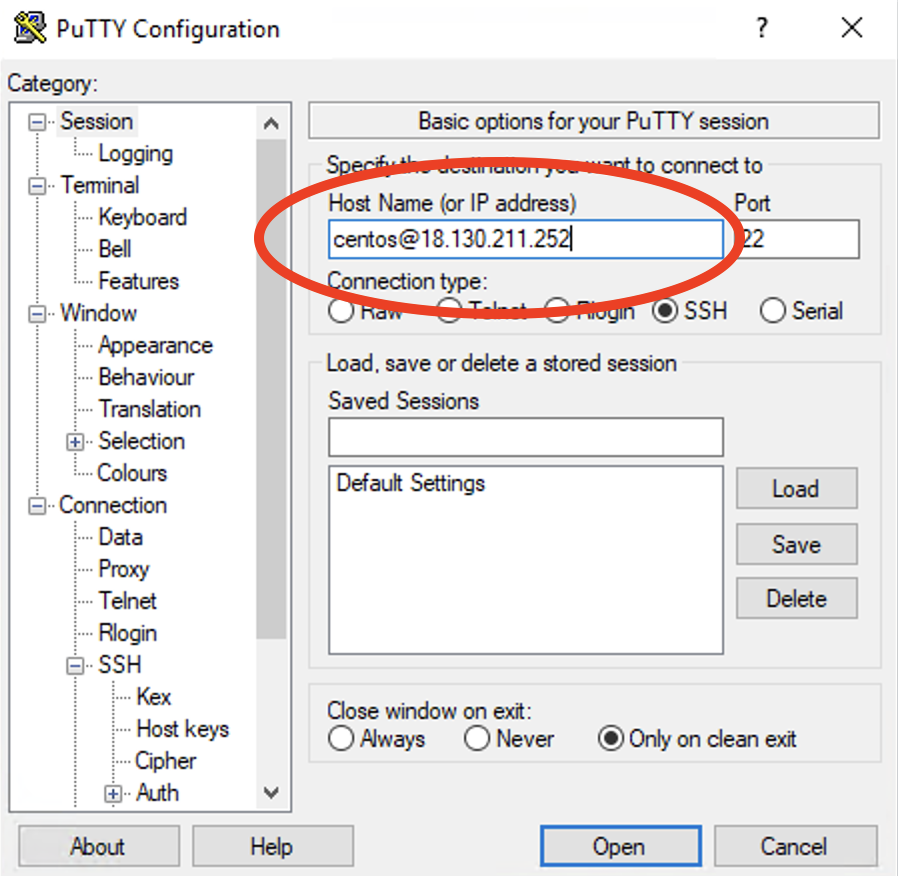
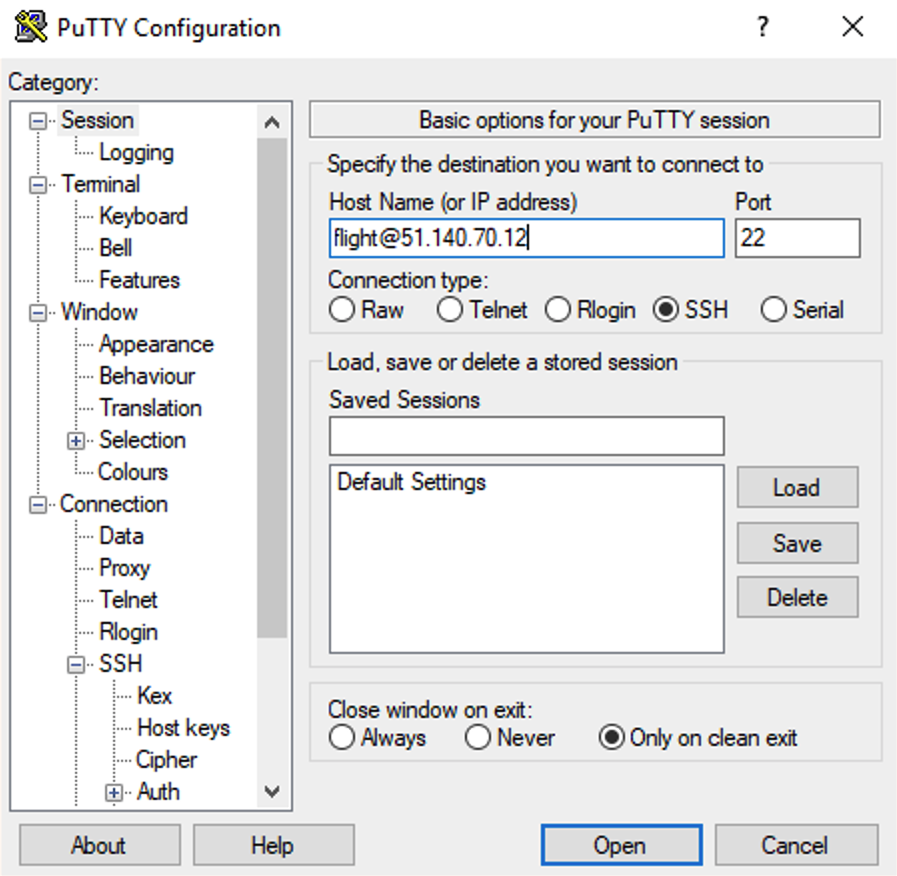
Adapt to new flight env

diff --git a/docs/source/general-usage/basic_cluster_operation.rst b/docs/source/general-usage/basic_cluster_operation.rst
@@ -16,11 +16,11 @@ Linux/Mac
 
 To access the cluster login node from a Linux or Mac client, use the following command:
 
- - ``ssh -i mypublickey.pem centos@52.50.141.144``
+ - ``ssh -i mypublickey.pem flight@52.50.141.144``
 
  Where:
   - ``mypublickey.pem`` is the name of your private key associated with the public SSH key you set when launching the cluster
-  - ``centos`` is the username of the user on the cluster
+  - ``flight`` is the username of the user on the cluster
   - ``52.50.141.144`` is the Access-IP address for the gateway node of the cluster
 
 .. _windows-putty-access:
@@ -65,19 +65,18 @@ For security reasons, SSH login as the root user is not permitted to a Flight Co
 .. warning:: Users must exercise caution when running commands as root, as they have the potential to disrupt cluster operations. 
 
 
-Finding the names of your compute nodes
----------------------------------------
+Activating the Flight Environment
+---------------------------------
 
-An Alces Flight Compute cluster may contain any number of compute nodes depending on your cluster size. The hostnames of compute nodes usually follow a sequential order (e.g. node01, node02, node03... node10). openFlight Compute automatically creates a list of compute node names and uses them to populate a *genders* group called **nodes**. 
+Flight Compute comes with a powerful software management environment that can (optionally) be used to streamline application installations for the cluster. 
 
-Users can find the names of their compute nodes by using the ``nodeattr`` command, after loading the module file for ``pdsh``; e.g.
+This provides some quick tips to activating the environment and finding out more about the flight environment (``flight info``).
 
-  - ``module load services/pdsh``
-  - ``nodeattr -s nodes`` - shows a space-separated list of current compute node hostnames
-  - ``nodeattr -c nodes`` - shows a comma-separated list of current compute node hostnames
-  - ``nodeattr -n nodes`` - shows a new-line-separated list of current compute node hostnames
+To load the environment, simply run ``flight start`` (which, when first run, will generate some login keys for allowing passwordless login to compute nodes)
 
-The login node hostname for Flight Compute clusters launched using default templates is always ``gateway1``. 
+.. image:: flightenv.png
+    :alt: Activating the flight environment
+
 
 Moving between login and compute nodes
 --------------------------------------
@@ -87,21 +86,4 @@ openFlight Compute clusters automatically configure a trust relationship between
   ``ssh node01``
   
 Use the ``logout`` command (or press **CTRL+D**) to exit the compute node and return to the login node.
-
-
-Using PDSH
-----------
-
-Users can run a command across all compute nodes at once using the ``pdsh`` command. This can be useful if users want to make a change to all nodes in the cluster - for example, installing a new software package. Users must load the ``services/pdsh`` module to enable the command. The ``pdsh`` command can take a number of parameters that control how commands are processed; for example:
-
-  - ``module load services/pdsh``
-     - loads the module for the ``pdsh`` and ``nodeattr`` commands
-  - ``pdsh -g cluster uptime`` 
-     - executes the ``uptime`` command on all available compute and login nodes in the cluster
-  - ``pdsh -g nodes 'sudo yum -y install screen'`` 
-     - use ``yum`` to install the ``screen`` package as the root user on all compute nodes
-  - ``pdsh -g nodes -f 1 df -h /tmp`` 
-     - executes the command ``df -h /tmp`` on all compute nodes of the cluster, one at a time (fanout=1)
-  - ``pdsh -w ip-10-75-0-235,ip-10-75-0-66 which ldconfig`` 
-     - runs the ``which ldconfig`` command on two named nodes only
 

diff --git a/docs/source/overview/whatisit.rst b/docs/source/overview/whatisit.rst
@@ -9,7 +9,7 @@ openFlight Compute is the software environment designed to help researchers and 
  - An Enterprise Linux operating system
  - A shared filesystem, mounted across all nodes
  - A batch job scheduler
- - Access to a library of software applications
+ - Access to various libraries of software applications
 
 openFlight Compute is designed to get researchers started with HPC as quickly as possible, providing a pre-configured environment which is ready for work immediately. The cluster you build is personal to you - users have root-access to the environment, and can setup and configure the system to their needs. 
 
@@ -76,5 +76,5 @@ We encourage new users to run through a few tutorials in this documentation - ev
 
 There is a community site for supporting the openFlight software - `available online here <https://community.openflighthpc.org/>`_. This website is designed to help users share their experiences of running Flight clusters, report any bugs with the software, and share knowledge to help everyone work more effectively. There is no payment required for using this service, except for the general requirement to be nice to each other - if you find the site useful, then please pay the favour back by helping another user with their problem. 
 
-The openFlight community support site is a great resource for helping with HPC cluster usage, but for software application support you're going to need to contact the developers of the packages themselves. Each software package installed within the openFlight Compute environment (via the flight package manager) comes with a link to the online home of the package (e.g. ``module display apps/gromacs``), where you can highlight any issues to the package maintainers. Remember that many of these software products are open-source and you've paid no fee to use them - try to make your bug-reports and enhancement requests as helpful and friendly as possible to the application developers. They've done you a great service by making their software available for you to use - please be respectful of their time and effort if you need to contact them, and remember to credit their software in your research publications. 
+The openFlight community support site is a great resource for helping with HPC cluster usage, but for software application support you're going to need to contact the developers of the packages themselves. Remember that many of these software products are open-source and you've paid no fee to use them - try to make your bug-reports and enhancement requests as helpful and friendly as possible to the application developers. They've done you a great service by making their software available for you to use - please be respectful of their time and effort if you need to contact them, and remember to credit their software in your research publications. 
 

diff --git a/docs/source/working-with-cluster/genders-and-pdsh.rst b/docs/source/working-with-cluster/genders-and-pdsh.rst
@@ -1,0 +1,49 @@
+.. _genders-and-pdsh:
+
+Genders and PDSH
+================
+
+A combination of genders and pdsh can allow for management and monitoring of multiple nodes at a time.
+
+Installing nodeattr and pdsh
+----------------------------
+
+Nodeattr and pdsh can be installed using the yum package manager, simply::
+
+    sudo yum -y install genders pdsh pdsh-mod-genders
+
+
+Finding the names of your compute nodes
+---------------------------------------
+
+An openFlight Compute cluster may contain any number of compute nodes depending on your cluster size. The hostnames of compute nodes us
+ually follow a sequential order (e.g. node01, node02, node03... node10). openFlight Compute automatically creates a list of compute nod
+e names and uses them to populate a *genders* group called **nodes**. This genders file can be found at ``/opt/flight/etc/genders``.
+
+Users can find the names of their compute nodes by using the ``nodeattr`` command; e.g.
+
+  - ``nodeattr -f /opt/flight/etc/genders -s nodes``
+     - shows a space-separated list of current compute node hostnames
+  - ``nodeattr -f /opt/flight/etc/genders -c nodes``
+     - shows a comma-separated list of current compute node hostnames
+  - ``nodeattr -f /opt/flight/etc/genders -n nodes``
+     - shows a new-line-separated list of current compute node hostnames
+
+The login node hostname for Flight Compute clusters launched using default templates is always ``gateway1``.
+
+
+Using PDSH
+----------
+
+Users can run a command across all compute nodes at once using the ``pdsh`` command. This can be useful if users want to make a change to all nodes in the cluster - for example, installing a new software package. The ``pdsh`` command can take a number of parameters that control how commands are processed; for example:
+
+  - ``pdsh -F /opt/flight/etc/genders -g all uptime``
+     - executes the ``uptime`` command on all available compute and login nodes in the cluster
+  - ``pdsh -F /opt/flight/etc/genders -g nodes 'sudo yum -y install screen'``
+     - use ``yum`` to install the ``screen`` package as the root user on all compute nodes
+  - ``pdsh -F /opt/flight/etc/genders -g nodes -f 1 df -h /tmp``
+     - executes the command ``df -h /tmp`` on all compute nodes of the cluster, one at a time (fanout=1)
+  - ``pdsh -w node01,node03 which ldconfig``
+     - runs the ``which ldconfig`` command on two named nodes only
+
+

diff --git a/docs/source/index.rst b/docs/source/index.rst
@@ -44,6 +44,7 @@ Table of Contents
    :caption: Working With Cluster
    :name: working-with-cluster
 
+   working-with-cluster/genders-and-pdsh
    working-with-cluster/slurm
 
 .. toctree::
